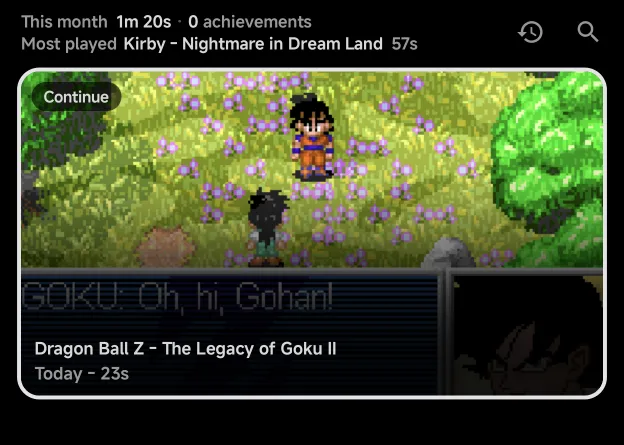
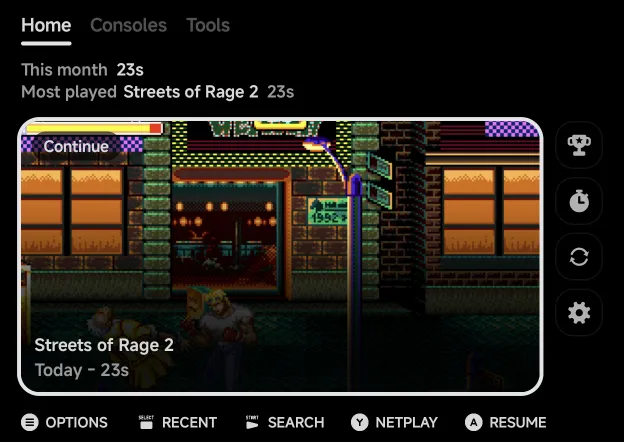
Main menu: the opening Home shot with its tabs and button hints

diff --git a/docs/mobile/main-menu.md b/docs/mobile/main-menu.md
@@ -4,7 +4,7 @@ The main menu is split into four tabs: **Home**, **Consoles**,
 **Collections** and **Tools**. The app opens on Home, or on the first tab you
 have not hidden.
 
-![Home in Grid, with Dragon Ball Z - The Legacy of Goku II on the Continue card under the This month and Most played strip](../assets/screenshots/mobile/home.webp)
+![Home in Grid: the Home, Consoles and Tools tabs at the top, the This month and Most played strip, Streets of Rage 2 on the Continue card beside the pinned tools, and the button hints along the bottom](../assets/screenshots/mobile/home.webp)
 
 Each tab and the game lists can be drawn in different styles, picked in
 [Menu Layouts](layouts.md): see [Home](#home), [Consoles](#consoles),
